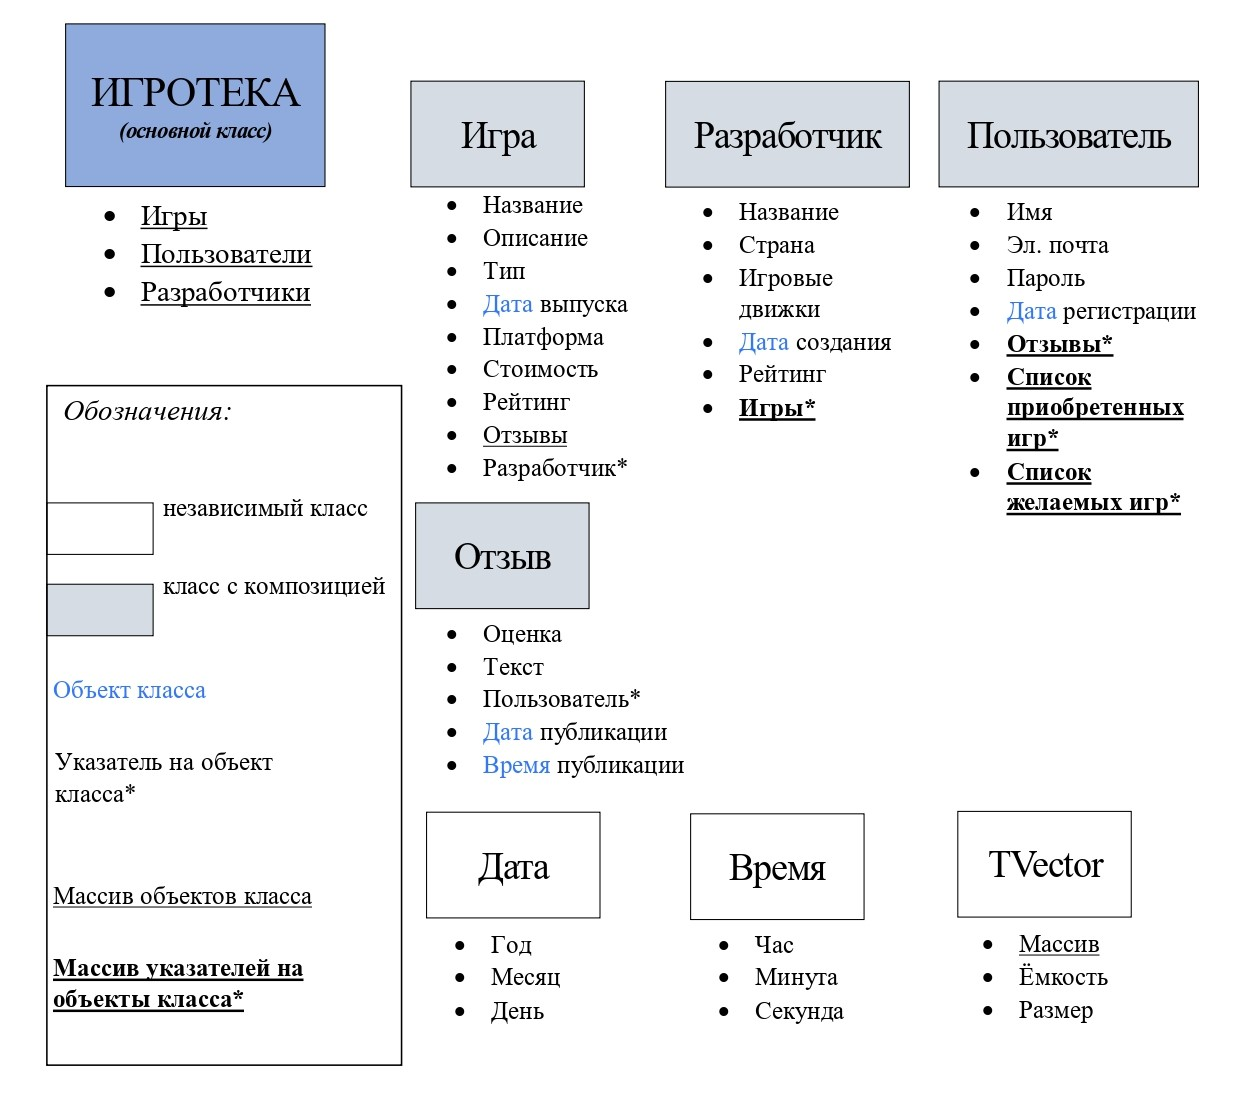
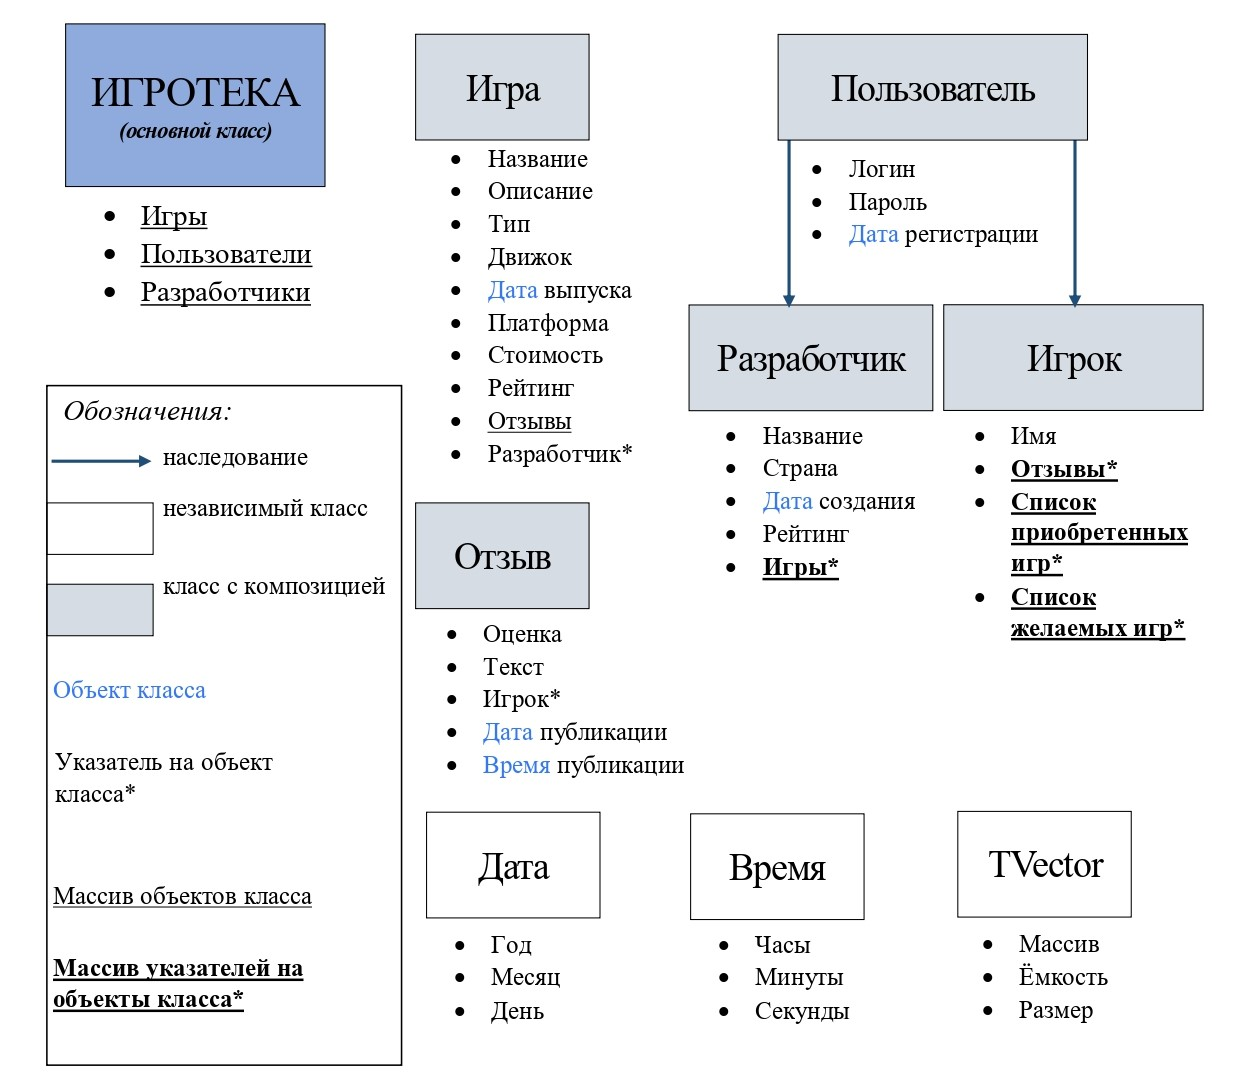
fixed structure and diagram

diff --git a/GameStore/Game/game.h b/GameStore/Game/game.h
@@ -5,7 +5,6 @@
 
 #include <string>
 
-#include "../Date/date.h"
 #include "../Developer/developer.h"
 #include "../Review/review.h"
 #include "../TVector/tvector.h"
@@ -15,12 +14,13 @@ class Developer;
 
 class Game {
     std::string _name;
-    int _rating;
-    std::string _gaming_platform;
-    Date _release_date;
-    std::string _type;
     std::string _description;
+    std::string _type;
+    std::string _engine;
+    std::string _gaming_platform;
     std::string _price;
+    Date _release_date;
+    int _rating;
     TVector<Review> _reviews;
     Developer* _developer;
 };

diff --git a/GameStore/Player/player.h b/GameStore/Player/player.h
@@ -1,0 +1,23 @@
+// Copyright 2025 Viktoria Buzlaeva
+
+#ifndef GAMESTORE_PLAYER_PLAYER_H_
+#define GAMESTORE_PLAYER_PLAYER_H_
+
+#include <string>
+
+#include "../User/user.h"
+#include "../Review/review.h"
+#include "../Game/game.h"
+#include "../TVector/tvector.h"
+
+class Game;
+class Review;
+
+class Player: public User {
+    std::string _name;
+    TVector<Review*> _reviews;
+    TVector<Game*> _purchased_games;
+    TVector<Game*> _wishlist_games;
+};
+
+#endif  // GAMESTORE_PLAYER_PLAYER_H_

diff --git a/GameStore/User/user.h b/GameStore/User/user.h
@@ -6,21 +6,12 @@
 #include <string>
 
 #include "../Date/date.h"
-#include "../Review/review.h"
-#include "../Game/game.h"
 #include "../TVector/tvector.h"
 
-class Game;
-class Review;
-
 class User {
-    std::string _name;
-    std::string _email;
+    std::string _login;
     std::string _password;
     Date _registration_date;
-    TVector<Review*> _reviews;
-    TVector<Game*> _purchased_games;
-    TVector<Game*> _wishlist_games;
 };
 
 #endif  // GAMESTORE_USER_USER_H_

diff --git a/GameStore/GameStore/gamestore.h b/GameStore/GameStore/gamestore.h
@@ -3,14 +3,14 @@
 #ifndef GAMESTORE_GAMESTORE_GAMESTORE_H_
 #define GAMESTORE_GAMESTORE_GAMESTORE_H_
 
+#include "../Player/player.h"
 #include "../Developer/developer.h"
 #include "../Game/game.h"
-#include "../User/user.h"
 #include "../TVector/tvector.h"
 
 class GameStore {
     TVector<Game> _games;
-    TVector<User> _users;
+    TVector<User> _players;
     TVector<Developer> _developers;
 };
 

diff --git a/GameStore/Developer/developer.h b/GameStore/Developer/developer.h
@@ -5,14 +5,16 @@
 
 #include <string>
 
+#include "../User/user.h"
 #include "../Game/game.h"
 #include "../TVector/tvector.h"
 
 class Game;
 
-class Developer {
+class Developer: public User {
+    std::string _name;
     std::string _country;
-    std::string _game_engine;
+    Date _founding_date;
     int _rating;
     TVector<Game*> _games;
 };

diff --git a/GameStore/Review/review.h b/GameStore/Review/review.h
@@ -5,16 +5,15 @@
 
 #include <string>
 
-#include "../Date/date.h"
 #include "../Time/ctime.h"
-#include "../User/user.h"
+#include "../Player/player.h"
 
-class User;
+class Player;
 
 class Review {
     int _rate;
     std::string _text;
-    User* _user;
+    Player* _author;
     Date _publication_date;
     CTime _publication_time;
 };

diff --git a/GameStore/Player/player.cpp b/GameStore/Player/player.cpp
@@ -1,0 +1,3 @@
+// Copyright 2025 Viktoria Buzlaeva
+
+#include "/GitHub/Individual-Project/GameStore/Player/player.h"

diff --git a/README.md b/README.md
@@ -28,4 +28,6 @@
 ## Схема классов
 
 ![Схема классов](source/Diagram.jpg)
+
+## Класс вектор
 [Исследование std::vector](/source/STL_vector.docx)
